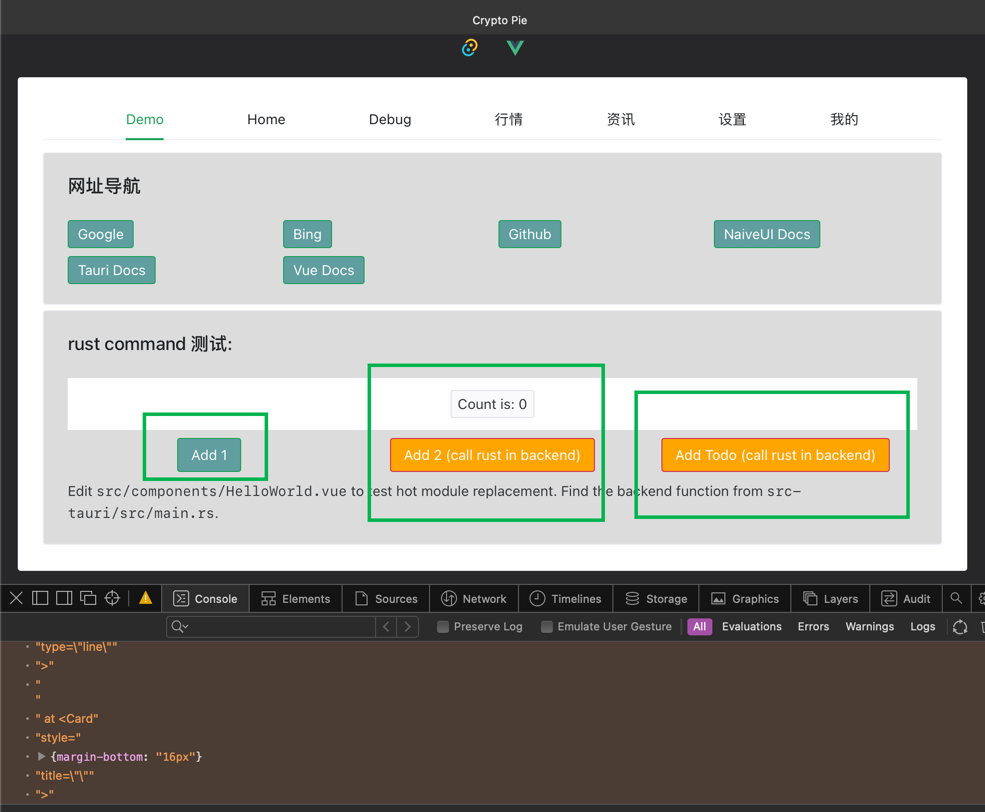
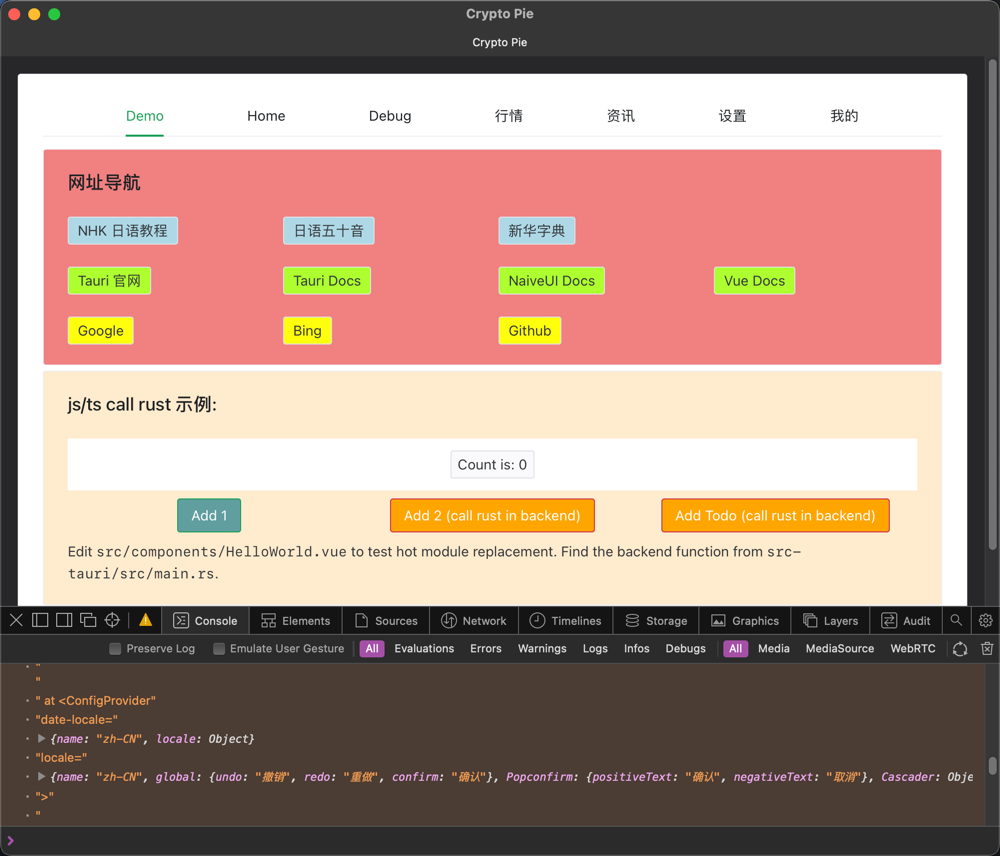
update(docs)

diff --git a/crates/rs-tauri-vue/src/components/demo/WebsiteNav.vue b/crates/rs-tauri-vue/src/components/demo/WebsiteNav.vue
@@ -1,14 +1,36 @@
 <template>
-    <n-card item-responsive="true" style="background:gainsboro; margin-bottom:5px" title="网址导航">
+    <n-card item-responsive="true" style="background:lightcoral; margin-bottom:5px" title="网址导航">
         <n-grid :x-gap="12" :y-gap="8" cols="4">
             <!-- 分组 -->
-            <n-grid-item v-for="item in websites">
-                <n-button size="small" style="background:cadetblue;" type="success"
+            <n-grid-item v-for="item in webJp">
+                <n-button size="small" style="background:lightblue;"
                           @click="open_webview(item.url)">
                     {{ item.title }}
                 </n-button>
             </n-grid-item>
         </n-grid>
+        <br>
+        <n-grid :x-gap="12" :y-gap="8" cols="4">
+            <!-- 分组 -->
+            <n-grid-item v-for="item in webDocs">
+                <n-button size="small" style="background:greenyellow;"
+                          @click="open_webview(item.url)">
+                    {{ item.title }}
+                </n-button>
+            </n-grid-item>
+        </n-grid>
+        <br>
+        <n-grid :x-gap="12" :y-gap="8" cols="4">
+            <!-- 分组 -->
+            <n-grid-item v-for="item in webSearch">
+                <n-button size="small" style="background:yellow;"
+                          @click="open_webview(item.url)">
+                    {{ item.title }}
+                </n-button>
+            </n-grid-item>
+        </n-grid>
+
+
     </n-card>
 </template>
 
@@ -19,15 +41,23 @@ import {defineComponent, getCurrentInstance, ref} from 'vue'
 import {WebviewWindow} from '@tauri-apps/api/window';
 
 // 数据: 需要注册到下面
-const websites = ref([
+const webDocs = ref([
+    {title: 'Tauri 官网', url: "https://tauri.app/zh-cn/"},
+    {title: 'Tauri Docs', url: "https://tauri.app/v1/api/js/"},
+    {title: 'NaiveUI Docs', url: "https://www.naiveui.com/zh-CN/light/components/button"},
+    {title: 'Vue Docs', url: "https://cn.vuejs.org/guide/essentials/list.html#v-for"},
+]);
+const webSearch = ref([
     {title: 'Google', url: "https://google.com"},
     {title: 'Bing', url: "https://bing.com"},
     {title: 'Github', url: "https://github.com"},
 
-    //
-    {title: 'NaiveUI Docs', url: "https://www.naiveui.com/zh-CN/light/components/button"},
-    {title: 'Tauri Docs', url: "https://tauri.app/v1/api/js/"},
-    {title: 'Vue Docs', url: "https://cn.vuejs.org/guide/essentials/list.html#v-for"},
+]);
+const webJp = ref([
+    {title: 'NHK 日语教程', url: "https://www.nhk.or.jp/lesson/zh/letters/hiragana.html"},
+    {title: '日语五十音', url: "https://inihongo.github.io/Japanese_syllabary_learning/index.html"},
+    {title: '新华字典', url: "https://zd.hwxnet.com/"},
+
 ])
 
 
@@ -37,7 +67,9 @@ export default defineComponent({
     props: ['waited'],
 
     data: () => ({
-        websites,
+        webDocs,
+        webJp,
+        webSearch,
         toggle: false,
         counter: 0,
     }),

diff --git a/crates/rs-tauri-vue/components.d.ts b/crates/rs-tauri-vue/components.d.ts
@@ -18,8 +18,10 @@ declare module '@vue/runtime-core' {
     Layout: typeof import('./src/components/Layout.vue')['default']
     NButton: typeof import('naive-ui')['NButton']
     NCard: typeof import('naive-ui')['NCard']
+    NCol: typeof import('naive-ui')['NCol']
     NDrawer: typeof import('naive-ui')['NDrawer']
     NDrawerContent: typeof import('naive-ui')['NDrawerContent']
+    NEmpty: typeof import('naive-ui')['NEmpty']
     NGradientText: typeof import('naive-ui')['NGradientText']
     NGrid: typeof import('naive-ui')['NGrid']
     NGridItem: typeof import('naive-ui')['NGridItem']
@@ -36,6 +38,7 @@ declare module '@vue/runtime-core' {
     NSpace: typeof import('naive-ui')['NSpace']
     NSpin: typeof import('naive-ui')['NSpin']
     NTable: typeof import('naive-ui')['NTable']
+    NTableColumn: typeof import('naive-ui')['NTableColumn']
     NTabPane: typeof import('naive-ui')['NTabPane']
     NTabs: typeof import('naive-ui')['NTabs']
     NTag: typeof import('naive-ui')['NTag']

diff --git a/crates/rs-tauri-vue/src/App.vue b/crates/rs-tauri-vue/src/App.vue
@@ -2,8 +2,7 @@
 // This starter template is using Vue 3 <script setup> SFCs
 // Check out https://vuejs.org/api/sfc-script-setup.html#script-setup
 import {defineComponent} from 'vue'
-import {dateZhCN, zhCN} from 'naive-ui';
-import {NConfigProvider} from 'naive-ui'
+import {dateZhCN, NConfigProvider, zhCN} from 'naive-ui';
 
 export default defineComponent({
     components: {
@@ -24,19 +23,11 @@ import Tab from './components/Tab.vue'
 
 
 <template>
-    <n-config-provider :locale="zhCN" :date-locale="dateZhCN">
+    <n-config-provider :date-locale="dateZhCN" :locale="zhCN">
 
         <div class="flex-col p-5">
-
-            <div class="flex flex-row items-center justify-center">
-                <img src="/tauri.svg" class="w-5 h-5 logo tauri" alt="Tauri logo"/>
-                <img src="/vue.svg" class="w-5 h-5 logo vue" alt="Vue logo"/>
-            </div>
-
-
             <!--            todo x: tab-->
             <Tab></Tab>
-
         </div>
 
     </n-config-provider>

diff --git a/crates/rs-tauri-vue/src/components/demo/Hello.vue b/crates/rs-tauri-vue/src/components/demo/Hello.vue
@@ -22,7 +22,7 @@ async function addTodo() {
 
 <template>
 
-    <n-card style="background:gainsboro; margin-bottom:5px" title="rust command 测试:">
+    <n-card style="background:blanchedalmond; margin-bottom:5px" title="js/ts call rust 示例:">
         <n-space vertical>
             <n-list align="center">
                 <n-list-item>
